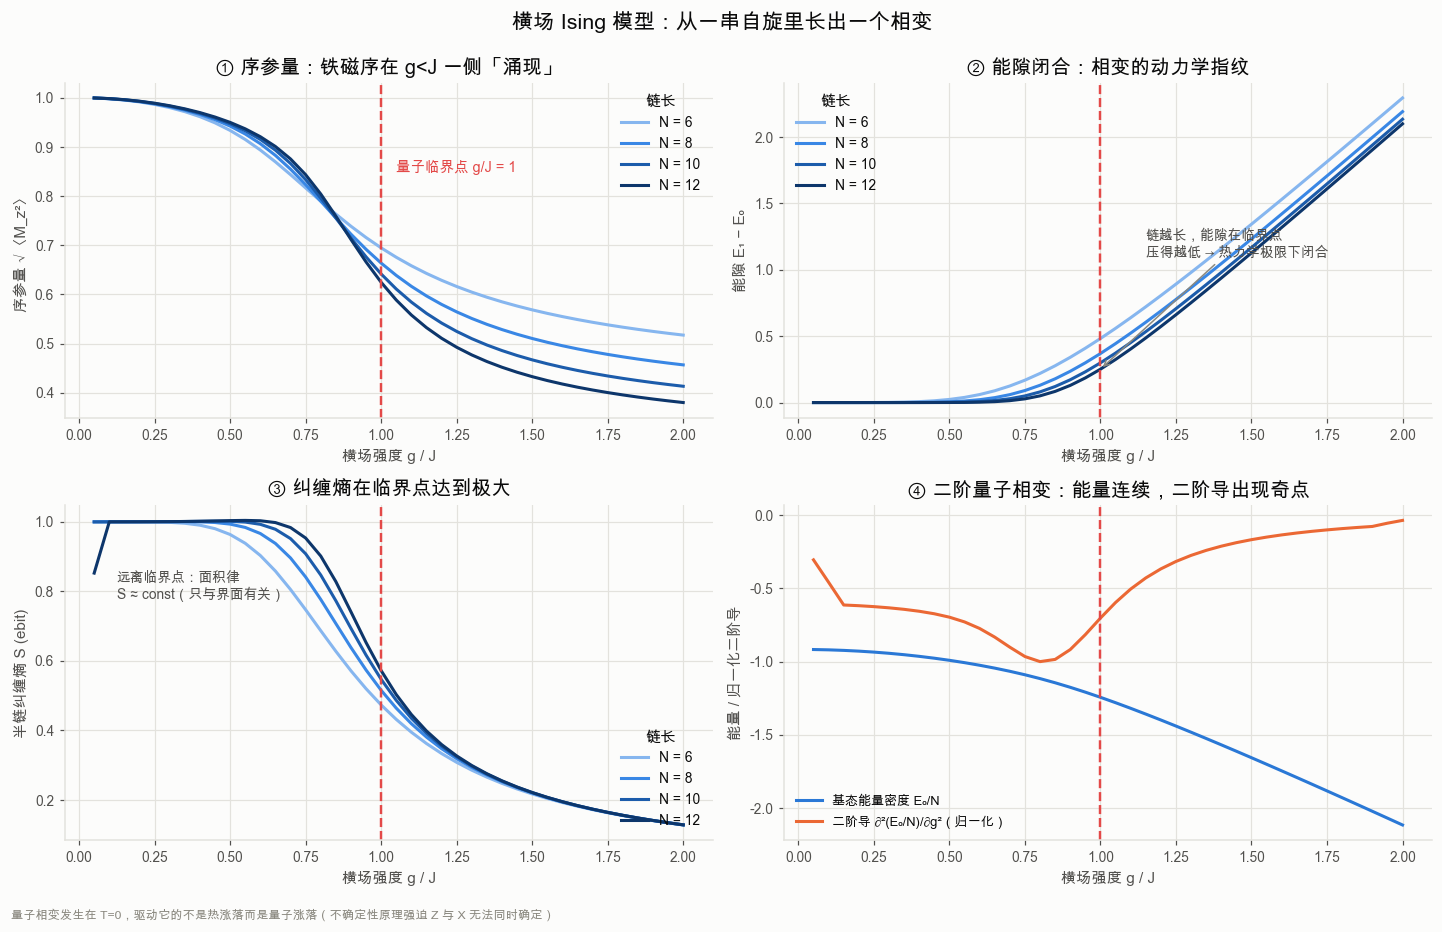
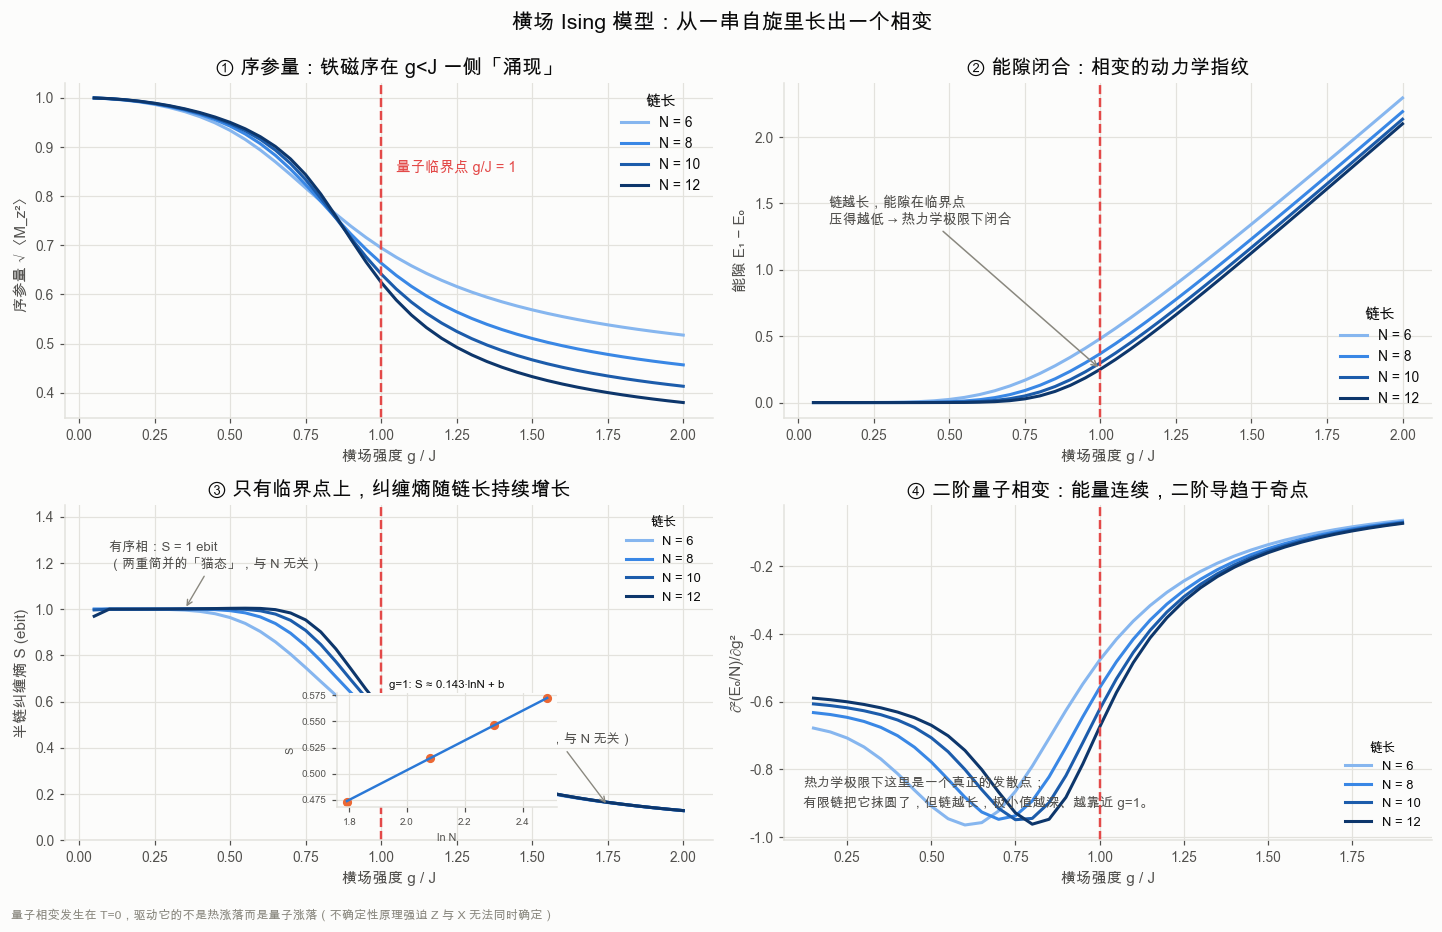
update

diff --git a/qhv/s07_emergence.py b/qhv/s07_emergence.py
@@ -91,13 +91,17 @@ def tfim_real(n: int, J: float = 1.0, g: float = 1.0) -> torch.Tensor:
     return Hm
 
 
-def half_chain_entropy(psi: torch.Tensor, n: int, l: int) -> float:
-    """前 l 个格点与其余部分之间的冯·诺依曼熵（以 2 为底）。"""
+def half_chain_entropy(psi: torch.Tensor, n: int, l: int, base: float = 2.0) -> float:
+    """前 l 个格点与其余部分之间的冯·诺依曼熵。
+
+    base=2 → 单位是 ebit；base=e → 单位是 nat（共形场论的标准约定）。
+    对纯态只需做一次 SVD：施密特系数的平方就是约化密度矩阵的本征值。
+    """
     M = psi.reshape(2 ** l, 2 ** (n - l))
-    s = torch.linalg.svdvals(M)
-    p = (s ** 2).clamp_min(1e-16)
+    sv = torch.linalg.svdvals(M)
+    p = (sv ** 2).clamp_min(1e-16)
     p = p / p.sum()
-    return float(-(p * torch.log2(p)).sum())
+    return float(-(p * torch.log(p)).sum() / math.log(base))
 
 
 # ------------------------------------------------------------ 图 1：量子相变
@@ -139,7 +143,7 @@ def fig_quantum_phase_transition():
         ax.plot(gs_vals, gaps[n], color=col, lw=2, label=f"N = {n}")
     ax.axvline(1.0, color=C["red"], ls="--", lw=1.6)
     ax.annotate("链越长，能隙在临界点\n压得越低 → 热力学极限下闭合",
-                xy=(1.0, np.interp(1.0, gs_vals, gaps[12])), xytext=(1.15, 1.1),
+                xy=(1.0, np.interp(1.0, gs_vals, gaps[12])), xytext=(0.10, 1.35),
                 fontsize=9, color=INK_2,
                 arrowprops=dict(arrowstyle="->", color=INK_MUTED, lw=1))
     ax.set_xlabel("横场强度 g / J"); ax.set_ylabel("能隙 E₁ − E₀")
@@ -151,21 +155,41 @@ def fig_quantum_phase_transition():
         ax.plot(gs_vals, ents[n], color=col, lw=2, label=f"N = {n}")
     ax.axvline(1.0, color=C["red"], ls="--", lw=1.6)
     ax.set_xlabel("横场强度 g / J"); ax.set_ylabel("半链纠缠熵 S (ebit)")
-    ax.set_title("③ 纠缠熵在临界点达到极大")
-    ax.text(0.08, 0.72, "远离临界点：面积律\nS ≈ const（只与界面有关）",
-            transform=ax.transAxes, fontsize=9, color=INK_2)
-    ax.legend(title="链长", loc="lower right")
+    ax.set_title("③ 只有临界点上，纠缠熵随链长持续增长")
+    ax.set_ylim(0, 1.45)
+    ax.annotate("有序相：S = 1 ebit\n（两重简并的「猫态」，与 N 无关）",
+                xy=(0.35, 1.0), xytext=(0.10, 1.18), fontsize=8.6, color=INK_2,
+                arrowprops=dict(arrowstyle="->", color=INK_MUTED, lw=0.9))
+    ax.annotate("无序相：S → 0\n（近乎乘积态，与 N 无关）",
+                xy=(1.75, 0.15), xytext=(1.30, 0.42), fontsize=8.6, color=INK_2,
+                arrowprops=dict(arrowstyle="->", color=INK_MUTED, lw=0.9))
+    ax.legend(title="链长", loc="upper right", fontsize=8.5, title_fontsize=8.5)
+
+    # 内插图：临界点上 S ∝ (c/6)·ln N —— 对数发散，正是「涌现的场论」的签名
+    ins = ax.inset_axes([0.42, 0.10, 0.34, 0.34])
+    Sc = [np.interp(1.0, gs_vals, ents[n]) for n in sizes]
+    lnN = np.log(np.array(sizes, dtype=float))
+    k_, b_ = np.polyfit(lnN, Sc, 1)
+    ins.plot(lnN, Sc, "o", ms=5, color=C["orange"])
+    ins.plot(lnN, k_ * lnN + b_, color=C["blue"], lw=1.6)
+    ins.set_title(f"g=1: S ≈ {k_:.3f}·lnN + b", fontsize=7.5, pad=3)
+    ins.set_xlabel("ln N", fontsize=7); ins.set_ylabel("S", fontsize=7)
+    ins.tick_params(labelsize=6.5)
+    print(f"  临界点半链熵对链长的对数斜率 = {k_:.3f} ebit/lnN "
+          f"→ c ≈ {6*k_*math.log(2):.2f}（理论 1/2）")
 
     ax = axes[1, 1]
-    n = 12
-    d2 = np.gradient(np.gradient(np.array(e_dens[n]), gs_vals), gs_vals)
-    ax.plot(gs_vals, e_dens[n], color=C["blue"], lw=2, label="基态能量密度 E₀/N")
-    ax.plot(gs_vals, d2 / abs(d2).max(), color=C["orange"], lw=2,
-            label="二阶导 ∂²(E₀/N)/∂g²（归一化）")
+    for n, col in zip(sizes, ramp):
+        d2 = np.gradient(np.gradient(np.array(e_dens[n]), gs_vals), gs_vals)
+        ax.plot(gs_vals[2:-2], d2[2:-2], color=col, lw=2, label=f"N = {n}")
     ax.axvline(1.0, color=C["red"], ls="--", lw=1.6)
-    ax.set_xlabel("横场强度 g / J"); ax.set_ylabel("能量 / 归一化二阶导")
-    ax.set_title("④ 二阶量子相变：能量连续，二阶导出现奇点")
-    ax.legend(loc="lower left", fontsize=8.5)
+    ax.set_xlabel("横场强度 g / J"); ax.set_ylabel("∂²(E₀/N)/∂g²")
+    ax.set_title("④ 二阶量子相变：能量连续，二阶导趋于奇点")
+    ax.text(0.03, 0.10,
+            "热力学极限下这里是一个真正的发散点；\n"
+            "有限链把它抹圆了，但链越长，极小值越深、越靠近 g=1。",
+            transform=ax.transAxes, fontsize=8.8, color=INK_2, linespacing=1.5)
+    ax.legend(title="链长", loc="lower right", fontsize=8.5, title_fontsize=8.5)
 
     fig.suptitle("横场 Ising 模型：从一串自旋里长出一个相变", fontsize=14,
                  fontweight="bold", y=0.99)
@@ -176,46 +200,61 @@ def fig_quantum_phase_transition():
 
 # ------------------------------------------------------------ 图 2：纠缠熵标度
 def fig_entanglement_scaling():
-    n = 12
+    """临界点上的纠缠熵标度：S(l) = (c/6)·ln[(2L/π)sin(πl/L)] + const（开边界）。
+
+    注意共形场论的约定用自然对数，所以这里的熵一律以 nat 为单位。
+    """
+    n = 16
     fig, (ax, ax2) = plt.subplots(1, 2, figsize=(13.0, 4.8))
 
     results = {}
-    for g, col, name in [(0.4, C["blue"], "g=0.4 有序相"),
-                         (1.0, C["orange"], "g=1.0 临界点"),
-                         (2.0, C["aqua"], "g=2.0 无序相")]:
+    for g, col, name in [(0.4, C["blue"], "g=0.4 有序相（面积律）"),
+                         (1.0, C["orange"], "g=1.0 临界点（对数律）"),
+                         (2.0, C["aqua"], "g=2.0 无序相（面积律）")]:
         _, psi0 = lowest(n, 1.0, g, k=2)
         ls = list(range(1, n))
-        S = [half_chain_entropy(psi0, n, l) for l in ls]
-        results[g] = (ls, S)
+        S = [half_chain_entropy(psi0, n, l, base=math.e) for l in ls]
+        results[g] = (np.array(ls), np.array(S))
         ax.plot(ls, S, "o-", color=col, lw=2, ms=6, label=name)
-    ax.set_xlabel("子系统大小 l（链长 L = 12）")
-    ax.set_ylabel("纠缠熵 S(l) (ebit)")
+    ax.set_xlabel(f"子系统大小 l（链长 L = {n}）")
+    ax.set_ylabel("纠缠熵 S(l) (nat)")
     ax.set_title("① 面积律 vs 对数律")
-    ax.legend()
+    ax.text(0.03, 0.72, "远离临界点：S 与 l 无关\n（只取决于「切开几刀」= 面积律）",
+            transform=ax.transAxes, fontsize=9, color=INK_2)
+    ax.legend(loc="center", bbox_to_anchor=(0.55, 0.52), fontsize=8.5)
 
-    # 临界点做共形场论拟合： S = (c/6) ln[(2L/π) sin(πl/L)] + const
-    ls, S = results[1.0]
-    chord = np.log(2 * n / math.pi * np.sin(math.pi * np.array(ls) / n))
-    X = torch.tensor(np.stack([chord, np.ones_like(chord)], 1), dtype=DT)
-    y = torch.tensor(S, dtype=DT)
-    coef = torch.linalg.lstsq(X, y.unsqueeze(1)).solution.squeeze()
-    c_fit = float(coef[0]) * 6
-    print(f"  临界点纠缠熵拟合：中心荷 c = {c_fit:.3f}（理论 1/2，有限尺寸 L={n} 有修正）")
+    def fit_c(L):
+        _, p0 = lowest(L, 1.0, 1.0, k=2)
+        lsL = np.arange(1, L)
+        SL = np.array([half_chain_entropy(p0, L, int(l), base=math.e) for l in lsL])
+        chordL = np.log(2 * L / math.pi * np.sin(math.pi * lsL / L))
+        A = torch.tensor(np.stack([chordL, np.ones_like(chordL)], 1), dtype=DT)
+        sol = torch.linalg.lstsq(A, torch.tensor(SL, dtype=DT).unsqueeze(1)).solution.squeeze()
+        return chordL, SL, float(sol[0]), float(sol[1])
 
-    ax2.plot(chord, S, "o", ms=8, color=C["orange"], label="数值（g=1 临界基态）")
+    chord, S, slope, intercept = fit_c(n)
+    c_fit = 6 * slope
+    trend = [(L, 6 * fit_c(L)[2]) for L in (8, 10, 12, 14, 16)]
+    print("  中心荷拟合随链长的收敛： " +
+          "，".join(f"L={L}: c={cc:.3f}" for L, cc in trend) + "（理论 1/2）")
+
+    ax2.plot(chord, S, "o", ms=8, color=C["orange"], label=f"数值（L={n} 临界基态）")
     xx = np.linspace(chord.min(), chord.max(), 50)
-    ax2.plot(xx, float(coef[0]) * xx + float(coef[1]), color=C["blue"], lw=2,
-             label=f"CFT 拟合：斜率 c/6 → c = {c_fit:.3f}")
-    ax2.plot(xx, 0.5 / 6 * xx + float(coef[1]) + (c_fit - 0.5) / 6 * chord.mean() * 0,
-             color=INK_MUTED, lw=1.6, ls="--", label="理论斜率 c = 1/2")
-    ax2.set_xlabel("ln[(2L/π)·sin(πl/L)]  （共形弦长）")
-    ax2.set_ylabel("S(l)")
+    ax2.plot(xx, slope * xx + intercept, color=C["blue"], lw=2,
+             label=f"最小二乘拟合：c = 6×斜率 = {c_fit:.3f}")
+    ax2.plot(xx, (0.5 / 6) * (xx - chord.mean()) + S.mean(),
+             color=INK_MUTED, lw=1.8, ls="--", label="理论斜率 c = 1/2")
+    ax2.set_xlabel("ln[(2L/π)·sin(πl/L)]   （共形弦长）")
+    ax2.set_ylabel("S(l) (nat)")
     ax2.set_title("② 临界点上「涌现」出共形对称性")
-    ax2.legend(loc="upper left", fontsize=8.8)
-    ax2.text(0.98, 0.06, "一串离散的自旋，在临界点上\n表现得像一个连续的相对论性场论",
-             transform=ax2.transAxes, ha="right", fontsize=9, color=INK_2)
+    ax2.legend(loc="upper left", fontsize=8.6)
+    ax2.text(0.97, 0.06,
+             "有限尺寸下 c 收敛得很慢：\n"
+             + "  ".join(f"L={L}→{cc:.2f}" for L, cc in trend[1:])
+             + "\n一串离散自旋在临界点上表现得像一个连续场论",
+             transform=ax2.transAxes, ha="right", fontsize=8.6, color=INK_2, linespacing=1.6)
     return finish(fig, "07_entanglement_scaling.png",
-                  "c=1/2 是伊辛普适类的中心荷：微观细节（晶格、耦合形式）全被洗掉，只剩下普适的临界行为——这就是涌现")
+                  "c=1/2 是伊辛普适类的中心荷：微观细节（晶格常数、耦合的具体形式）全被洗掉，只剩普适的临界行为——这就是涌现")
 
 
 # ------------------------------------------------------------ 图 3：退相干
